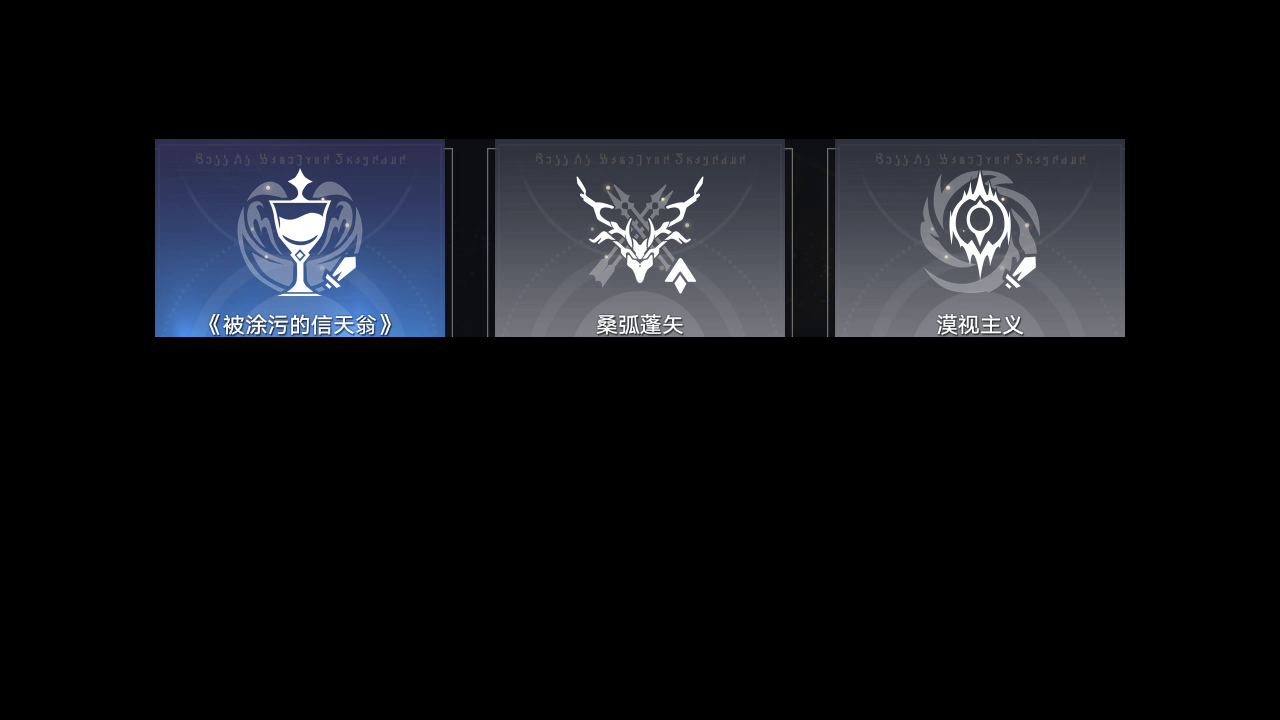
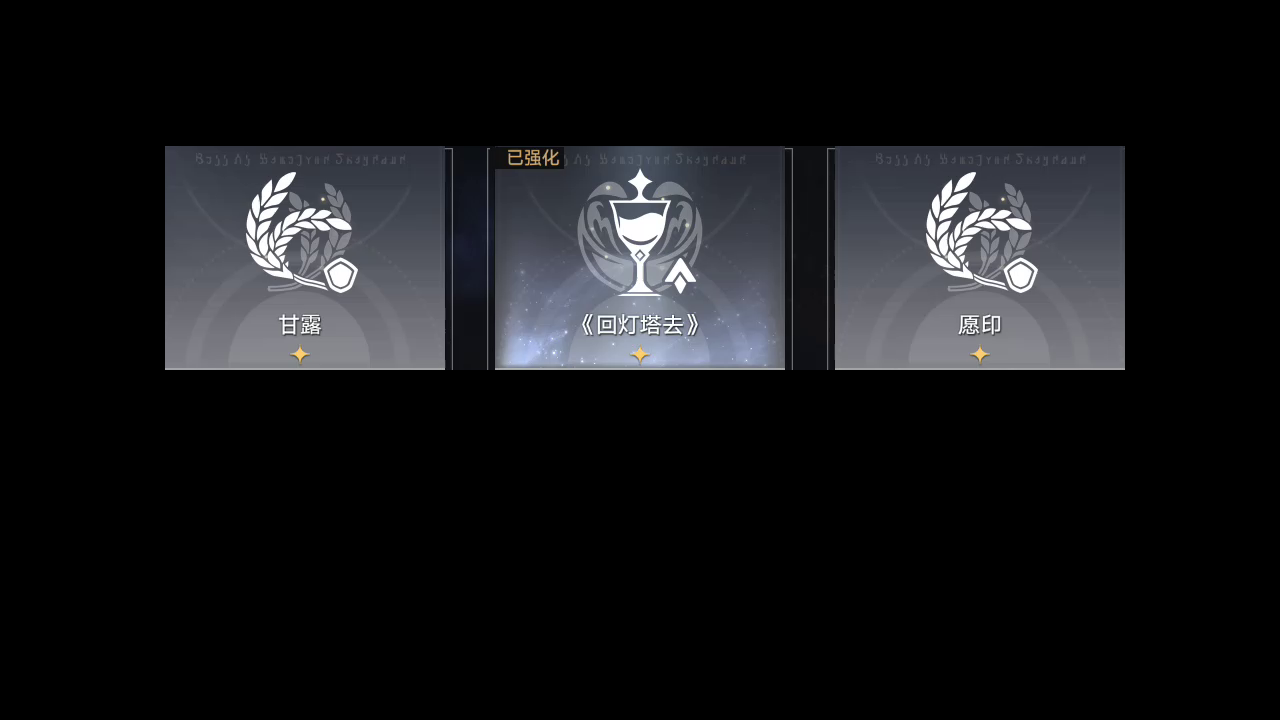
Upd: blessing ocr template

Changed region(s): [[0.0938, 0.1833, 0.9062, 0.5194]]

diff --git a/tasks/rogue/assets/assets_rogue_blessing.py b/tasks/rogue/assets/assets_rogue_blessing.py
@@ -67,9 +67,9 @@ OCR_ROGUE_BUFF = ButtonWrapper(
     name='OCR_ROGUE_BUFF',
     share=Button(
         file='./assets/share/rogue/blessing/OCR_ROGUE_BUFF.png',
-        area=(155, 139, 1125, 337),
-        search=(135, 119, 1145, 357),
-        color=(79, 86, 104),
-        button=(155, 139, 1125, 337),
+        area=(165, 146, 1125, 370),
+        search=(145, 126, 1145, 390),
+        color=(93, 96, 105),
+        button=(165, 146, 1125, 370),
     ),
 )
